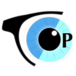
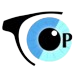
nuevo color e imagenes

diff --git a/Frontend/src/views/consulta_examenes/ReparacionLentesVer.js b/Frontend/src/views/consulta_examenes/ReparacionLentesVer.js
@@ -17,7 +17,7 @@ import {
   faTools
 } from '@fortawesome/free-solid-svg-icons';
 import { useNavigate, useParams } from 'react-router-dom';
-import UserHeader from 'components/Headers/UserHeader.js';
+import HeaderBlanco from 'components/Headers/HeaderBlanco.js';
 import { reparacionLentesService } from '../../services/consulta_examenes/reparacionLentesService';
 
 const ReparacionLentesVer = () => {
@@ -56,7 +56,7 @@ const ReparacionLentesVer = () => {
   if (loading) {
     return (
       <>
-        <UserHeader />
+        <HeaderBlanco />
         <Container className="mt--7" fluid>
           <Row>
             <Col>
@@ -76,7 +76,7 @@ const ReparacionLentesVer = () => {
   if (error) {
     return (
       <>
-        <UserHeader />
+        <HeaderBlanco />
         <Container className="mt--7" fluid>
           <Row>
             <Col>
@@ -101,7 +101,7 @@ const ReparacionLentesVer = () => {
   if (!reparacion) {
     return (
       <>
-        <UserHeader />
+        <HeaderBlanco />
         <Container className="mt--7" fluid>
           <Row>
             <Col>
@@ -125,7 +125,7 @@ const ReparacionLentesVer = () => {
 
   return (
     <>
-      <UserHeader />
+      <HeaderBlanco />
       <Container className="mt--7" fluid>
         <Row>
           <Col>

diff --git a/Frontend/src/views/consulta_examenes/TipoEnfermedadVer.js b/Frontend/src/views/consulta_examenes/TipoEnfermedadVer.js
@@ -17,7 +17,7 @@ import {
   faVirus
 } from '@fortawesome/free-solid-svg-icons';
 import { useNavigate, useParams } from 'react-router-dom';
-import UserHeader from 'components/Headers/UserHeader.js';
+import HeaderBlanco from 'components/Headers/HeaderBlanco.js';
 import { tipoEnfermedadService } from '../../services/consulta_examenes/tipoEnfermedadService';
 
 const TipoEnfermedadVer = () => {
@@ -56,7 +56,7 @@ const TipoEnfermedadVer = () => {
   if (loading) {
     return (
       <>
-        <UserHeader />
+        <HeaderBlanco />
         <Container className="mt--7" fluid>
           <Row>
             <Col>
@@ -76,7 +76,7 @@ const TipoEnfermedadVer = () => {
   if (error) {
     return (
       <>
-        <UserHeader />
+        <HeaderBlanco />
         <Container className="mt--7" fluid>
           <Row>
             <Col>
@@ -101,7 +101,7 @@ const TipoEnfermedadVer = () => {
   if (!tipoEnfermedad) {
     return (
       <>
-        <UserHeader />
+        <HeaderBlanco />
         <Container className="mt--7" fluid>
           <Row>
             <Col>
@@ -125,7 +125,7 @@ const TipoEnfermedadVer = () => {
 
   return (
     <>
-      <UserHeader />
+      <HeaderBlanco />
       <Container className="mt--7" fluid>
         <Row>
           <Col>

diff --git a/Frontend/src/views/consulta_examenes/DiagnosticoVer.js b/Frontend/src/views/consulta_examenes/DiagnosticoVer.js
@@ -17,7 +17,7 @@ import {
   faStethoscope
 } from '@fortawesome/free-solid-svg-icons';
 import { useNavigate, useParams } from 'react-router-dom';
-import UserHeader from 'components/Headers/UserHeader.js';
+import HeaderBlanco from 'components/Headers/HeaderBlanco.js';
 import { diagnosticoService } from '../../services/consulta_examenes/diagnosticoService';
 
 const DiagnosticoVer = () => {
@@ -56,7 +56,7 @@ const DiagnosticoVer = () => {
   if (loading) {
     return (
       <>
-        <UserHeader />
+        <HeaderBlanco />
         <Container className="mt--7" fluid>
           <Row>
             <Col>
@@ -76,7 +76,7 @@ const DiagnosticoVer = () => {
   if (error) {
     return (
       <>
-        <UserHeader />
+        <HeaderBlanco />
         <Container className="mt--7" fluid>
           <Row>
             <Col>
@@ -101,7 +101,7 @@ const DiagnosticoVer = () => {
   if (!diagnostico) {
     return (
       <>
-        <UserHeader />
+        <HeaderBlanco />
         <Container className="mt--7" fluid>
           <Row>
             <Col>
@@ -125,7 +125,7 @@ const DiagnosticoVer = () => {
 
   return (
     <>
-      <UserHeader />
+      <HeaderBlanco />
       <Container className="mt--7" fluid>
         <Row>
           <Col>

diff --git a/Frontend/src/views/consulta_examenes/ExamenVistaVer.js b/Frontend/src/views/consulta_examenes/ExamenVistaVer.js
@@ -17,7 +17,7 @@ import {
   faEye
 } from '@fortawesome/free-solid-svg-icons';
 import { useNavigate, useParams } from 'react-router-dom';
-import UserHeader from 'components/Headers/UserHeader.js';
+import HeaderBlanco from 'components/Headers/HeaderBlanco.js';
 import { examenVistaService } from '../../services/consulta_examenes/examenVistaService';
 
 const ExamenVistaVer = () => {
@@ -56,7 +56,7 @@ const ExamenVistaVer = () => {
   if (loading) {
     return (
       <>
-        <UserHeader />
+        <HeaderBlanco />
         <Container className="mt--7" fluid>
           <Row>
             <Col>
@@ -76,7 +76,7 @@ const ExamenVistaVer = () => {
   if (error) {
     return (
       <>
-        <UserHeader />
+        <HeaderBlanco />
         <Container className="mt--7" fluid>
           <Row>
             <Col>
@@ -101,7 +101,7 @@ const ExamenVistaVer = () => {
   if (!examen) {
     return (
       <>
-        <UserHeader />
+        <HeaderBlanco />
         <Container className="mt--7" fluid>
           <Row>
             <Col>
@@ -125,7 +125,7 @@ const ExamenVistaVer = () => {
 
   return (
     <>
-      <UserHeader />
+      <HeaderBlanco />
       <Container className="mt--7" fluid>
         <Row>
           <Col>

diff --git a/Frontend/src/views/consulta_examenes/RecetaVer.js b/Frontend/src/views/consulta_examenes/RecetaVer.js
@@ -17,7 +17,7 @@ import {
   faPrescription
 } from '@fortawesome/free-solid-svg-icons';
 import { useNavigate, useParams } from 'react-router-dom';
-import UserHeader from 'components/Headers/UserHeader.js';
+import HeaderBlanco from 'components/Headers/HeaderBlanco.js';
 import { recetaService } from '../../services/consulta_examenes/recetaService';
 
 const RecetaVer = () => {
@@ -56,7 +56,7 @@ const RecetaVer = () => {
   if (loading) {
     return (
       <>
-        <UserHeader />
+        <HeaderBlanco />
         <Container className="mt--7" fluid>
           <Row>
             <Col>
@@ -76,7 +76,7 @@ const RecetaVer = () => {
   if (error) {
     return (
       <>
-        <UserHeader />
+        <HeaderBlanco />
         <Container className="mt--7" fluid>
           <Row>
             <Col>
@@ -101,7 +101,7 @@ const RecetaVer = () => {
   if (!receta) {
     return (
       <>
-        <UserHeader />
+        <HeaderBlanco />
         <Container className="mt--7" fluid>
           <Row>
             <Col>
@@ -125,7 +125,7 @@ const RecetaVer = () => {
 
   return (
     <>
-      <UserHeader />
+      <HeaderBlanco />
       <Container className="mt--7" fluid>
         <Row>
           <Col>

diff --git a/Frontend/src/views/consulta_examenes/ReparacionLentesForm.js b/Frontend/src/views/consulta_examenes/ReparacionLentesForm.js
@@ -22,7 +22,7 @@ import {
   faTools
 } from '@fortawesome/free-solid-svg-icons';
 import { useNavigate, useParams } from 'react-router-dom';
-import UserHeader from 'components/Headers/UserHeader.js';
+import HeaderBlanco from 'components/Headers/HeaderBlanco.js';
 import { reparacionLentesService } from '../../services/consulta_examenes/reparacionLentesService';
 
 const ReparacionLentesForm = () => {
@@ -164,7 +164,7 @@ const ReparacionLentesForm = () => {
   if (loading) {
     return (
       <>
-        <UserHeader />
+        <HeaderBlanco />
         <Container className="mt--7" fluid>
           <Row>
             <Col>
@@ -183,7 +183,7 @@ const ReparacionLentesForm = () => {
 
   return (
     <>
-      <UserHeader />
+      <HeaderBlanco />
       <Container className="mt--7" fluid>
         <Row>
           <Col>

diff --git a/Frontend/src/views/consulta_examenes/TipoEnfermedadForm.js b/Frontend/src/views/consulta_examenes/TipoEnfermedadForm.js
@@ -22,7 +22,7 @@ import {
   faVirus
 } from '@fortawesome/free-solid-svg-icons';
 import { useNavigate, useParams } from 'react-router-dom';
-import UserHeader from 'components/Headers/UserHeader.js';
+import HeaderBlanco from 'components/Headers/HeaderBlanco.js';
 import { tipoEnfermedadService } from '../../services/consulta_examenes/tipoEnfermedadService';
 
 const TipoEnfermedadForm = () => {
@@ -140,7 +140,7 @@ const TipoEnfermedadForm = () => {
   if (loading) {
     return (
       <>
-        <UserHeader />
+        <HeaderBlanco />
         <Container className="mt--7" fluid>
           <Row>
             <Col>
@@ -159,7 +159,7 @@ const TipoEnfermedadForm = () => {
 
   return (
     <>
-      <UserHeader />
+      <HeaderBlanco />
       <Container className="mt--7" fluid>
         <Row>
           <Col>

diff --git a/Frontend/src/views/consulta_examenes/PanelConsultaExamenes.js b/Frontend/src/views/consulta_examenes/PanelConsultaExamenes.js
@@ -22,7 +22,7 @@ import {
   faCalendarAlt
 } from '@fortawesome/free-solid-svg-icons';
 import { useNavigate } from 'react-router-dom';
-import UserHeader from 'components/Headers/UserHeader.js';
+import HeaderBlanco from 'components/Headers/HeaderBlanco.js';
 
 // Importar los servicios para obtener estadísticas
 import { recetaService } from '../../services/consulta_examenes/recetaService';
@@ -129,7 +129,7 @@ const PanelConsultaExamenes = () => {
 
   return (
     <>
-      <UserHeader />
+      <HeaderBlanco />
       <Container className="mt--7" fluid>
         {/* Resumen de estadísticas */}
         <Row className="mb-4">

diff --git a/Frontend/src/views/consulta_examenes/ReparacionLentes.js b/Frontend/src/views/consulta_examenes/ReparacionLentes.js
@@ -23,7 +23,7 @@ import {
   faTools,
   faArrowLeft
 } from '@fortawesome/free-solid-svg-icons';
-import UserHeader from 'components/Headers/UserHeader.js';
+import HeaderBlanco from 'components/Headers/HeaderBlanco.js';
 import { reparacionLentesService } from '../../services/consulta_examenes/reparacionLentesService';
 import { useNavigate } from 'react-router-dom';
 
@@ -155,7 +155,7 @@ const ReparacionLentes = () => {
 
   return (
     <>
-      <UserHeader />
+      <HeaderBlanco />
       <Container className="mt--7" fluid>
         <Row>
           <Col>

diff --git a/Frontend/src/views/consulta_examenes/TiposEnfermedad.js b/Frontend/src/views/consulta_examenes/TiposEnfermedad.js
@@ -23,7 +23,7 @@ import {
   faVirus,
   faArrowLeft
 } from '@fortawesome/free-solid-svg-icons';
-import UserHeader from 'components/Headers/UserHeader.js';
+import HeaderBlanco from 'components/Headers/HeaderBlanco.js';
 import { tipoEnfermedadService } from '../../services/consulta_examenes/tipoEnfermedadService';
 import { useNavigate } from 'react-router-dom';
 
@@ -134,7 +134,7 @@ const TiposEnfermedad = () => {
 
   return (
     <>
-      <UserHeader />
+      <HeaderBlanco />
       <Container className="mt--7" fluid>
         <Row>
           <Col>

diff --git a/Frontend/src/views/consulta_examenes/Diagnosticos.js b/Frontend/src/views/consulta_examenes/Diagnosticos.js
@@ -23,7 +23,7 @@ import {
   faClipboardCheck,
   faArrowLeft
 } from '@fortawesome/free-solid-svg-icons';
-import UserHeader from 'components/Headers/UserHeader.js';
+import HeaderBlanco from 'components/Headers/HeaderBlanco.js';
 import { diagnosticoService } from '../../services/consulta_examenes/diagnosticoService';
 import { useNavigate } from 'react-router-dom';
 
@@ -85,7 +85,7 @@ const Diagnosticos = () => {
 
   return (
     <>
-      <UserHeader />
+      <HeaderBlanco />
       <Container className="mt--7" fluid>
         <Row>
           <Col>

diff --git a/Frontend/src/views/consulta_examenes/ExamenesVista.js b/Frontend/src/views/consulta_examenes/ExamenesVista.js
@@ -23,7 +23,7 @@ import {
   faStethoscope,
   faArrowLeft
 } from '@fortawesome/free-solid-svg-icons';
-import UserHeader from 'components/Headers/UserHeader.js';
+import HeaderBlanco from 'components/Headers/HeaderBlanco.js';
 import { examenVistaService } from '../../services/consulta_examenes/examenVistaService';
 import { useNavigate } from 'react-router-dom';
 
@@ -121,7 +121,7 @@ const ExamenesVista = () => {
 
   return (
     <>
-      <UserHeader />
+      <HeaderBlanco />
       <Container className="mt--7" fluid>
         <Row>
           <Col>
